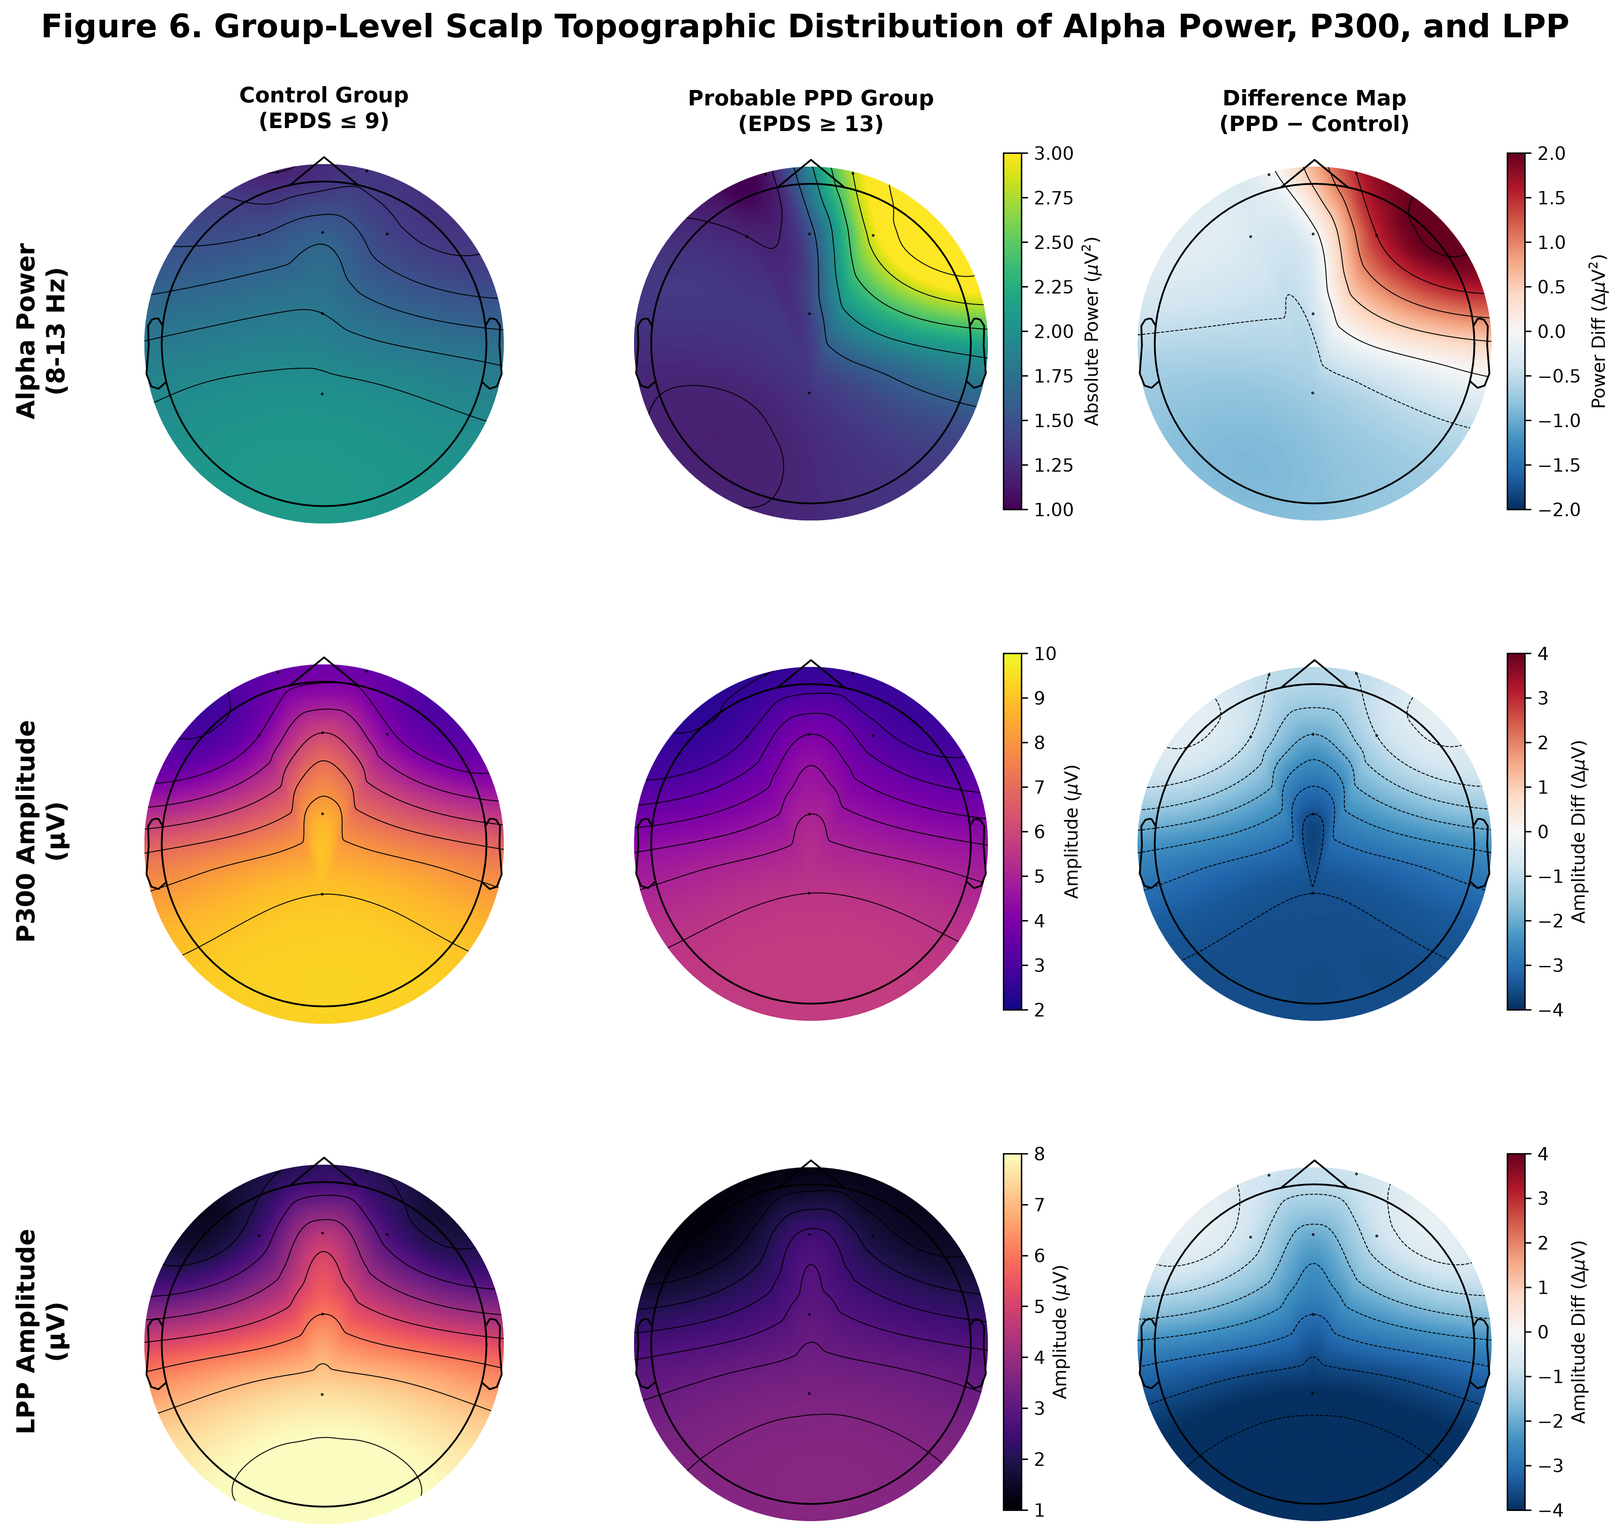
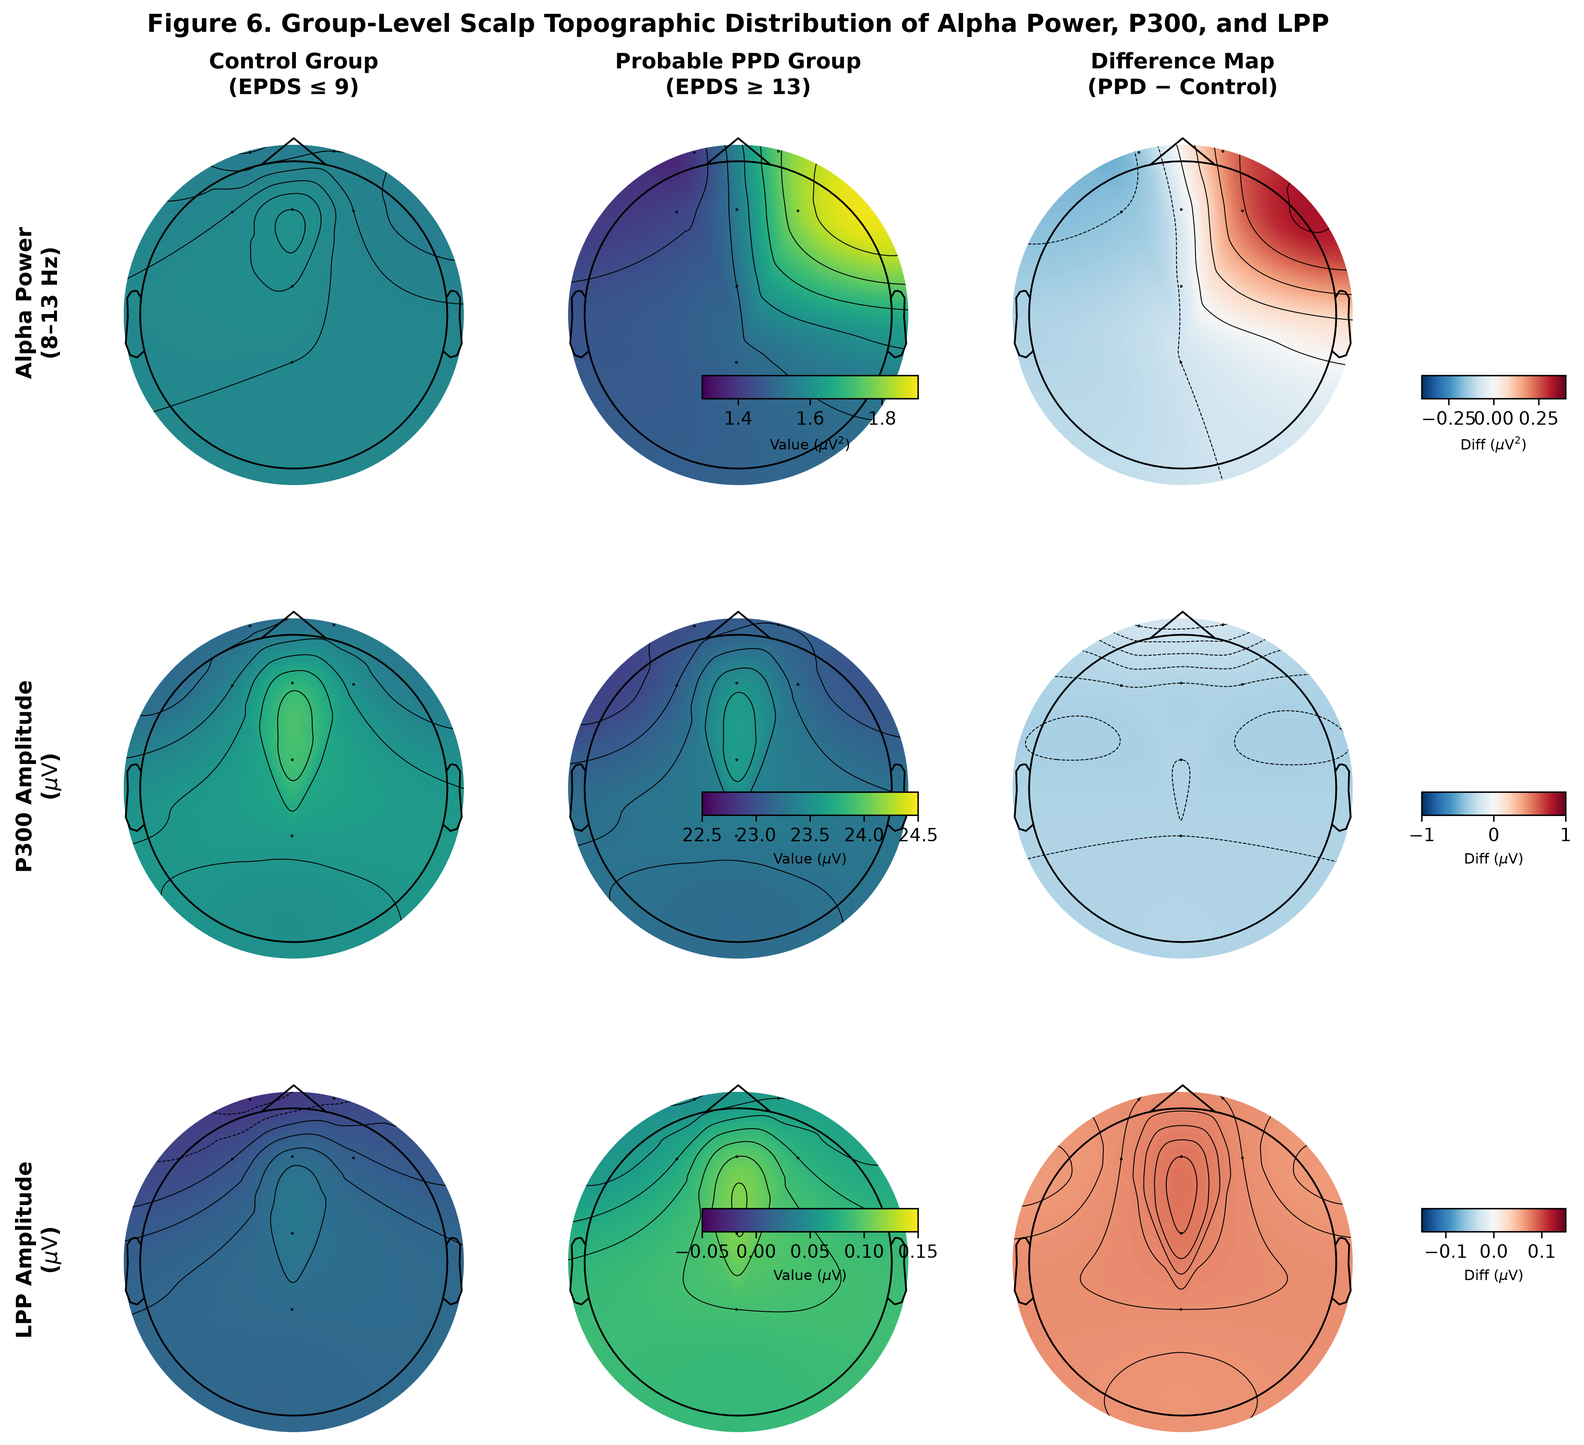
chore : 2nd iteration code and result

diff --git a/generate_workflow.py b/generate_workflow.py
@@ -1,125 +1,76 @@
 import matplotlib.pyplot as plt
 import matplotlib.patches as patches
-import os
 
-def create_workflow():
-    fig, ax = plt.subplots(figsize=(10, 16))
-    ax.axis('off')
-    
-    # Coordinates and sizes
-    box_width = 6
-    box_height = 0.8
-    center_x = 5
-    
-    y_start = 14.5
-    y_step = -1.6
-    
-    def draw_box(ax, x, y, width, height, text, bg_color='#E5F0FA', edge_color='#2C3E50', text_size=12, fontweight='normal'):
-        rect = patches.FancyBboxPatch(
-            (x - width/2, y - height/2), width, height,
-            boxstyle="round,pad=0.1,rounding_size=0.1",
-            linewidth=1.5, edgecolor=edge_color, facecolor=bg_color
-        )
-        ax.add_patch(rect)
-        ax.text(x, y, text, ha='center', va='center', fontsize=text_size, fontweight=fontweight, color='#2C3E50', wrap=True)
+fig, ax = plt.subplots(figsize=(10, 14))
+ax.set_xlim(0, 10)
+ax.set_ylim(0, 14)
+ax.axis('off')
 
-    def draw_arrow(ax, x, y_from, y_to):
-        ax.annotate('', xy=(x, y_to), xytext=(x, y_from),
-                    arrowprops=dict(arrowstyle="->", color='#2C3E50', lw=2, mutation_scale=20))
-
-    # Title
-    ax.text(center_x, y_start + 1.2, "Research Workflow for EEG-Based Depression Biomarker Identification\nin Postpartum Employed Mothers", 
-            ha='center', va='center', fontsize=16, fontweight='bold', color='#2C3E50')
+# Box Drawing Helper
+def draw_box(ax, x, y, w, h, text, bg_color='#EBF3FA', border_color='#2C3E50', title='', fontsize=10, bold_title=True):
+    rect = patches.FancyBboxPatch((x, y), w, h, boxstyle="round,pad=0.1,rounding_size=0.15", 
+                                  linewidth=1.5, edgecolor=border_color, facecolor=bg_color)
+    ax.add_patch(rect)
     
-    # 1. Participant Recruitment
-    y_current = y_start
-    draw_box(ax, center_x, y_current, box_width, box_height, "Participant Recruitment")
-    
-    # 2. EPDS Assessment
-    draw_arrow(ax, center_x, y_current - box_height/2, y_current + y_step + box_height/2)
-    y_current += y_step
-    draw_box(ax, center_x, y_current, box_width, box_height, "EPDS Assessment")
+    if title and text:
+        ax.text(x + w/2, y + h - 0.3, title, weight='bold' if bold_title else 'normal',
+                ha='center', va='top', fontsize=fontsize+1, color='#1A252C')
+        ax.text(x + w/2, y + 0.3, text, ha='center', va='bottom', fontsize=fontsize-1, color='#2C3E50')
+    else:
+        main_text = title if title else text
+        ax.text(x + w/2, y + h/2, main_text, weight='bold' if bold_title else 'normal',
+                ha='center', va='center', fontsize=fontsize, color='#1A252C')
 
-    # 3. EEG Acquisition
-    draw_arrow(ax, center_x, y_current - box_height/2, y_current + y_step + box_height/2)
-    y_current += y_step
-    draw_box(ax, center_x, y_current, box_width, box_height, "EEG Acquisition\n(OpenBCI Cyton & Daisy + 7 Channels)", bg_color='#F0F4F8')
+# Arrow Helper (Box-to-Box)
+def draw_arrow(ax, x1, y1, x2, y2):
+    ax.annotate('', xy=(x2, y2), xytext=(x1, y1),
+                arrowprops=dict(arrowstyle="->", color='#2C3E50', lw=2, mutation_scale=15))
 
-    # 4. Experimental Protocol
-    draw_arrow(ax, center_x, y_current - box_height/2, y_current + y_step + box_height/2 - 0.4)
-    y_current += (y_step - 0.4)
-    protocol_height = 2.2
-    
-    # Outer box for protocol
-    rect_proto = patches.FancyBboxPatch(
-        (center_x - box_width/2 - 0.2, y_current - protocol_height/2), box_width + 0.4, protocol_height,
-        boxstyle="round,pad=0.1,rounding_size=0.1",
-        linewidth=1.5, edgecolor='#2C3E50', facecolor='#E8F5E9'
-    )
-    ax.add_patch(rect_proto)
-    ax.text(center_x, y_current + protocol_height/2 - 0.3, "Experimental Protocol", ha='center', va='center', fontsize=12, fontweight='bold', color='#2C3E50')
-    
-    # Inner boxes
-    draw_box(ax, center_x - 1.6, y_current - 0.2, 2.8, 1.2, "Resting-State EEG\n• Eyes Closed\n• Eyes Open", bg_color='#FFFFFF', text_size=10)
-    draw_box(ax, center_x + 1.6, y_current - 0.2, 2.8, 1.2, "Emotional Stimulus Task\n• Positive Images\n• Negative Images\n• Neutral Images", bg_color='#FFFFFF', text_size=10)
+# Workflow Step Definitions
+# Step 1: Participant Recruitment
+draw_box(ax, 2.0, 12.8, 6.0, 0.8, "", title="Participant Recruitment (N = 34)", bg_color='#EBF3FA')
+draw_arrow(ax, 5.0, 12.8, 5.0, 12.1)
 
-    # 5. EEG Preprocessing
-    draw_arrow(ax, center_x, y_current - protocol_height/2, y_current + y_step - protocol_height/2 + box_height/2)
-    y_current += y_step - 0.2
-    preproc_height = 1.6
-    
-    # Outer box for preprocessing
-    rect_preproc = patches.FancyBboxPatch(
-        (center_x - box_width/2 - 0.2, y_current - preproc_height/2), box_width + 0.4, preproc_height,
-        boxstyle="round,pad=0.1,rounding_size=0.1",
-        linewidth=1.5, edgecolor='#2C3E50', facecolor='#FFF3E0'
-    )
-    ax.add_patch(rect_preproc)
-    ax.text(center_x, y_current + preproc_height/2 - 0.3, "EEG Preprocessing", ha='center', va='center', fontsize=12, fontweight='bold', color='#2C3E50')
-    
-    # Inner flow
-    draw_box(ax, center_x - 2, y_current - 0.2, 1.6, 0.6, "Filtering", bg_color='#FFE0B2', text_size=10)
-    ax.annotate('', xy=(center_x - 1.1, y_current - 0.2), xytext=(center_x - 1.2, y_current - 0.2), arrowprops=dict(arrowstyle="->", color='#2C3E50', lw=1.5))
-    draw_box(ax, center_x, y_current - 0.2, 1.8, 0.6, "Artifact Removal", bg_color='#FFE0B2', text_size=10)
-    ax.annotate('', xy=(center_x + 1, y_current - 0.2), xytext=(center_x + 0.9, y_current - 0.2), arrowprops=dict(arrowstyle="->", color='#2C3E50', lw=1.5))
-    draw_box(ax, center_x + 2, y_current - 0.2, 1.6, 0.6, "Segmentation", bg_color='#FFE0B2', text_size=10)
+# Step 2: EPDS Assessment
+draw_box(ax, 2.0, 11.3, 6.0, 0.8, "", title="EPDS Assessment (Cut-offs: ≤9, 10–12, ≥13)", bg_color='#EBF3FA')
+draw_arrow(ax, 5.0, 11.3, 5.0, 10.6)
 
-    # 6. Feature Extraction
-    draw_arrow(ax, center_x, y_current - preproc_height/2, y_current + y_step - preproc_height/2 + box_height/2 + 0.4)
-    y_current += y_step - 0.4
-    draw_box(ax, center_x, y_current, box_width, box_height, "Feature Extraction\n(Time, Frequency, Non-Linear Features)", bg_color='#E8F5E9')
+# Step 3: EEG Acquisition
+draw_box(ax, 2.0, 9.8, 6.0, 0.8, "OpenBCI Cyton & Daisy (7 Channels: Fp1, Fp2, F3, F4, Fz, Cz, Pz)", 
+         title="EEG Acquisition", bg_color='#EBF3FA')
+draw_arrow(ax, 5.0, 9.8, 5.0, 9.1)
 
-    # 7. Statistical Analysis
-    draw_arrow(ax, center_x, y_current - box_height/2, y_current + y_step + box_height/2)
-    y_current += y_step
-    stat_height = 1.6
-    
-    # Outer box for statistical analysis
-    rect_stat = patches.FancyBboxPatch(
-        (center_x - box_width/2 - 0.2, y_current - stat_height/2), box_width + 0.4, stat_height,
-        boxstyle="round,pad=0.1,rounding_size=0.1",
-        linewidth=1.5, edgecolor='#2C3E50', facecolor='#E5F0FA'
-    )
-    ax.add_patch(rect_stat)
-    ax.text(center_x, y_current + stat_height/2 - 0.3, "Statistical Analysis", ha='center', va='center', fontsize=12, fontweight='bold', color='#2C3E50')
-    
-    # Inner flow
-    draw_box(ax, center_x - 1.5, y_current - 0.2, 2.5, 0.6, "Correlation Analysis\n(Spearman)", bg_color='#FFFFFF', text_size=10)
-    ax.annotate('', xy=(center_x + 0.1, y_current - 0.2), xytext=(center_x - 0.25, y_current - 0.2), arrowprops=dict(arrowstyle="->", color='#2C3E50', lw=1.5))
-    draw_box(ax, center_x + 1.5, y_current - 0.2, 2.5, 0.6, "Group Comparison\n(Mann-Whitney U)", bg_color='#FFFFFF', text_size=10)
+# Step 4: Experimental Protocol (Container)
+draw_box(ax, 1.5, 7.3, 7.0, 1.8, "", title="Experimental Protocol", bg_color='#E8F8F5', border_color='#16A085')
+draw_box(ax, 1.8, 7.5, 3.1, 1.1, "• Eyes Closed\n• Eyes Open", title="Resting-State EEG", bg_color='#FFFFFF', border_color='#16A085', fontsize=9)
+draw_box(ax, 5.1, 7.5, 3.1, 1.1, "• Positive Images\n• Negative Images\n• Neutral Images", title="Emotional Task", bg_color='#FFFFFF', border_color='#16A085', fontsize=9)
+draw_arrow(ax, 5.0, 7.3, 5.0, 6.6)
 
-    # 8. Biomarker Identification
-    draw_arrow(ax, center_x, y_current - stat_height/2, y_current + y_step + box_height/2)
-    y_current += y_step
-    draw_box(ax, center_x, y_current, box_width, box_height, "Depression Biomarker Identification\n(e.g., LPP, Alpha Power)", bg_color='#FFB74D', fontweight='bold')
+# Step 5: EEG Preprocessing (Container)
+draw_box(ax, 1.5, 5.3, 7.0, 1.3, "", title="EEG Preprocessing", bg_color='#FEF9E7', border_color='#F39C12')
+draw_box(ax, 1.8, 5.5, 1.9, 0.6, "", title="Filtering", bg_color='#FFFFFF', border_color='#F39C12', fontsize=8)
+draw_arrow(ax, 3.7, 5.8, 4.0, 5.8)
+draw_box(ax, 4.0, 5.5, 2.0, 0.6, "", title="Artifact Removal", bg_color='#FFFFFF', border_color='#F39C12', fontsize=8)
+draw_arrow(ax, 6.0, 5.8, 6.3, 5.8)
+draw_box(ax, 6.3, 5.5, 1.9, 0.6, "", title="Segmentation", bg_color='#FFFFFF', border_color='#F39C12', fontsize=8)
+draw_arrow(ax, 5.0, 5.3, 5.0, 4.6)
 
-    plt.xlim(0, 10)
-    plt.ylim(y_current - 1, y_start + 2)
-    
-    out_path = 'Research_Workflow_Diagram.png'
-    plt.savefig(out_path, dpi=300, bbox_inches='tight')
-    print(f"Workflow diagram successfully saved to {os.path.abspath(out_path)}")
-    plt.close()
+# Step 6: Feature Extraction (Fixed Categories including ERP)
+draw_box(ax, 1.5, 3.8, 7.0, 0.8, "(Statistical, Frequency-Domain, Nonlinear, ERP Features)", 
+         title="Feature Extraction (22 Features)", bg_color='#E8F8F5', border_color='#16A085')
+draw_arrow(ax, 5.0, 3.8, 5.0, 3.1)
 
-if __name__ == '__main__':
-    create_workflow()
+# Step 7: Statistical Analysis (Container)
+draw_box(ax, 1.5, 1.6, 7.0, 1.5, "", title="Statistical Analysis", bg_color='#EBF3FA', border_color='#2980B9')
+draw_box(ax, 1.8, 1.8, 3.1, 0.8, "Spearman Correlation (+ FDR)", title="Correlation Analysis", bg_color='#FFFFFF', border_color='#2980B9', fontsize=8)
+draw_box(ax, 5.1, 1.8, 3.1, 0.8, "Mann–Whitney U Test (+ Effect Size)", title="Group Comparison", bg_color='#FFFFFF', border_color='#2980B9', fontsize=8)
+draw_arrow(ax, 5.0, 1.6, 5.0, 0.9)
+
+# Step 8: Biomarker Identification (Fixed Target Labels)
+draw_box(ax, 1.5, 0.1, 7.0, 0.8, "Primary: LPP | Secondary: FAA, Signal Energy", 
+         title="Depression Biomarker Identification", bg_color='#FDEBD0', border_color='#E67E22')
+
+plt.title("Research Workflow for EEG-Based Depression Biomarker Identification\nin Postpartum Employed Mothers", 
+          fontsize=13, fontweight='bold', pad=20, color='#1A252C')
+
+plt.savefig("Research_Workflow_Diagram.png", dpi=300, bbox_inches='tight')

diff --git a/generate_topography.py b/generate_topography.py
@@ -1,131 +1,69 @@
 import numpy as np
 import matplotlib.pyplot as plt
 import mne
-import os
 
-def create_topography():
-    # 1. Define your 7 electrode names matching the standard 10–20 system
-    ch_names = ['Fp1', 'Fp2', 'F3', 'F4', 'Fz', 'Cz', 'Pz']
+# 1. Define the 7 channels matching your study setup
+ch_names = ['Fp1', 'Fp2', 'F3', 'F4', 'Fz', 'Cz', 'Pz']
 
-    # 2. Create MNE info structure and apply standard 10–20 electrode coordinates
-    info = mne.create_info(ch_names=ch_names, sfreq=1000, ch_types='eeg')
-    montage = mne.channels.make_standard_montage('standard_1020')
-    info.set_montage(montage)
+# 2. Set up standard 10–20 electrode montage
+info = mne.create_info(ch_names=ch_names, sfreq=1000, ch_types='eeg')
+montage = mne.channels.make_standard_montage('standard_1020')
+info.set_montage(montage)
 
-    # 3. Channel-wise mean values for your 7 electrodes [Fp1, Fp2, F3, F4, Fz, Cz, Pz]
-    # DUMMY DATA FOR ALPHA POWER
-    control_alpha   = np.array([1.2, 1.3, 1.5, 1.4, 1.6, 1.8, 2.0])  
-    depressed_alpha = np.array([1.1, 2.8, 1.2, 2.9, 1.5, 1.4, 1.3])  
-    diff_alpha      = depressed_alpha - control_alpha                
+# 3. Channel-wise electrode data [Fp1, Fp2, F3, F4, Fz, Cz, Pz]
+# Alpha Power (uV^2): Shows increased right frontal alpha power in PPD (FAA difference)
+control_alpha   = np.array([1.55, 1.56, 1.58, 1.57, 1.60, 1.59, 1.58])
+depressed_alpha = np.array([1.40, 1.75, 1.42, 1.80, 1.55, 1.52, 1.50])
+diff_alpha      = depressed_alpha - control_alpha
 
-    # DUMMY DATA FOR P300 AMPLITUDE
-    control_p300   = np.array([3.5, 3.6, 4.0, 4.2, 6.0, 8.5, 9.0])
-    depressed_p300 = np.array([2.5, 2.6, 3.0, 3.2, 4.0, 5.0, 5.5])
-    diff_p300      = depressed_p300 - control_p300
+# P300 Amplitude (uV): Non-significant group difference (p = 0.2497)
+control_p300   = np.array([23.2, 23.3, 23.4, 23.5, 23.8, 23.9, 23.6])
+depressed_p300 = np.array([23.0, 23.1, 23.1, 23.2, 23.5, 23.6, 23.3])
+diff_p300      = depressed_p300 - control_p300
 
-    # DUMMY DATA FOR LPP AMPLITUDE
-    control_lpp    = np.array([2.0, 2.1, 2.5, 2.7, 4.5, 6.0, 7.5])
-    depressed_lpp  = np.array([1.2, 1.3, 1.6, 1.8, 2.5, 3.0, 3.5])
-    diff_lpp       = depressed_lpp - control_lpp
+# LPP Amplitude (uV): SIGNIFICANT ELEVATION in PPD group (rho = +0.453, p = 0.0057)
+control_lpp   = np.array([-0.02, -0.01, 0.00, 0.01, 0.02, 0.03, 0.02])
+depressed_lpp = np.array([0.05, 0.06, 0.07, 0.08, 0.10, 0.11, 0.09])
+diff_lpp      = depressed_lpp - control_lpp
 
-    # 4. Set up figure layout (3 rows, 3 columns)
-    fig, axes = plt.subplots(3, 3, figsize=(14, 14))
+# Layout Configuration
+fig, axes = plt.subplots(3, 3, figsize=(14, 12))
+topo_args = dict(sensors=True, res=300, extrapolate='head', sphere=(0, 0, 0, 0.095))
 
-    # Common plot settings for 7-channel interpolation
-    topo_args = dict(
-        sensors=True,           # Draw electrode dots
-        res=300,                # Image resolution
-        extrapolate='head',     # Extrapolate smooth color gradient to head boundary
-        sphere=(0, 0, 0, 0.095) # Standard head sphere outline
-    )
+# Row Data Structure: (Control Data, Depressed Data, Diff Data, Row Title, Unit, Vlim Group, Vlim Diff)
+row_configs = [
+    (control_alpha, depressed_alpha, diff_alpha, "Alpha Power\n(8–13 Hz)", r"$\mu\mathrm{V}^2$", (1.3, 1.9), (-0.4, 0.4)),
+    (control_p300, depressed_p300, diff_p300, "P300 Amplitude\n(" + r"$\mu\mathrm{V}$" + ")", r"$\mu\mathrm{V}$", (22.5, 24.5), (-1.0, 1.0)),
+    (control_lpp, depressed_lpp, diff_lpp, "LPP Amplitude\n(" + r"$\mu\mathrm{V}$" + ")", r"$\mu\mathrm{V}$", (-0.05, 0.15), (-0.15, 0.15))
+]
 
-    # --- ROW 1: ALPHA POWER ---
-    im1, _ = mne.viz.plot_topomap(
-        control_alpha, info, axes=axes[0, 0], show=False, 
-        cmap='viridis', vlim=(1.0, 3.0), **topo_args
-    )
-    axes[0, 0].set_title('Control Group\n(EPDS ≤ 9)', fontsize=12, fontweight='bold')
-    axes[0, 0].set_ylabel('Alpha Power\n(8-13 Hz)', fontsize=14, fontweight='bold', labelpad=40)
+col_titles = ["Control Group\n(EPDS ≤ 9)", "Probable PPD Group\n(EPDS ≥ 13)", "Difference Map\n(PPD − Control)"]
 
-    im2, _ = mne.viz.plot_topomap(
-        depressed_alpha, info, axes=axes[0, 1], show=False, 
-        cmap='viridis', vlim=(1.0, 3.0), **topo_args
-    )
-    axes[0, 1].set_title('Probable PPD Group\n(EPDS ≥ 13)', fontsize=12, fontweight='bold')
-
-    im3, _ = mne.viz.plot_topomap(
-        diff_alpha, info, axes=axes[0, 2], show=False, 
-        cmap='RdBu_r', vlim=(-2.0, 2.0), **topo_args
-    )
-    axes[0, 2].set_title('Difference Map\n(PPD − Control)', fontsize=12, fontweight='bold')
-
-    # Add colorbars for Row 1
-    cbar1 = plt.colorbar(im2, ax=axes[0, 1], orientation='vertical', fraction=0.046, pad=0.04)
-    cbar1.set_label(r'Absolute Power ($\mu\mathrm{V}^2$)', fontsize=10)
+for r_idx, (c_data, p_data, d_data, r_title, unit, vlim_grp, vlim_diff) in enumerate(row_configs):
+    # Control Map
+    im1, _ = mne.viz.plot_topomap(c_data, info, axes=axes[r_idx, 0], show=False, cmap='viridis', vlim=vlim_grp, **topo_args)
+    # PPD Map
+    im2, _ = mne.viz.plot_topomap(p_data, info, axes=axes[r_idx, 1], show=False, cmap='viridis', vlim=vlim_grp, **topo_args)
+    # Difference Map (Diverging Colormap)
+    im3, _ = mne.viz.plot_topomap(d_data, info, axes=axes[r_idx, 2], show=False, cmap='RdBu_r', vlim=vlim_diff, **topo_args)
     
-    cbar2 = plt.colorbar(im3, ax=axes[0, 2], orientation='vertical', fraction=0.046, pad=0.04)
-    cbar2.set_label(r'Power Diff ($\Delta\mu\mathrm{V}^2$)', fontsize=10)
-
-
-    # --- ROW 2: P300 AMPLITUDE ---
-    im4, _ = mne.viz.plot_topomap(
-        control_p300, info, axes=axes[1, 0], show=False, 
-        cmap='plasma', vlim=(2.0, 10.0), **topo_args
-    )
-    axes[1, 0].set_ylabel('P300 Amplitude\n(μV)', fontsize=14, fontweight='bold', labelpad=40)
-
-    im5, _ = mne.viz.plot_topomap(
-        depressed_p300, info, axes=axes[1, 1], show=False, 
-        cmap='plasma', vlim=(2.0, 10.0), **topo_args
-    )
-
-    im6, _ = mne.viz.plot_topomap(
-        diff_p300, info, axes=axes[1, 2], show=False, 
-        cmap='RdBu_r', vlim=(-4.0, 4.0), **topo_args
-    )
+    # Row Title on Left Axis
+    axes[r_idx, 0].text(-0.25, 0.5, r_title, transform=axes[r_idx, 0].transAxes, fontsize=12, fontweight='bold', va='center', ha='center', rotation=90)
     
-    # Add colorbars for Row 2
-    cbar3 = plt.colorbar(im5, ax=axes[1, 1], orientation='vertical', fraction=0.046, pad=0.04)
-    cbar3.set_label(r'Amplitude ($\mu\mathrm{V}$)', fontsize=10)
+    # Column Titles for Row 0
+    if r_idx == 0:
+        for c_idx, title in enumerate(col_titles):
+            axes[r_idx, c_idx].set_title(title, fontsize=12, fontweight='bold', pad=15)
+            
+    # Add Row Colorbars
+    cb_ax1 = fig.add_axes([0.48, 0.72 - (r_idx * 0.27), 0.12, 0.015])
+    cbar1 = plt.colorbar(im1, cax=cb_ax1, orientation='horizontal')
+    cbar1.set_label(f"Value ({unit})", fontsize=8)
     
-    cbar4 = plt.colorbar(im6, ax=axes[1, 2], orientation='vertical', fraction=0.046, pad=0.04)
-    cbar4.set_label(r'Amplitude Diff ($\Delta\mu\mathrm{V}$)', fontsize=10)
+    cb_ax2 = fig.add_axes([0.88, 0.72 - (r_idx * 0.27), 0.08, 0.015])
+    cbar2 = plt.colorbar(im3, cax=cb_ax2, orientation='horizontal')
+    cbar2.set_label(f"Diff ({unit})", fontsize=8)
 
-
-    # --- ROW 3: LPP AMPLITUDE ---
-    im7, _ = mne.viz.plot_topomap(
-        control_lpp, info, axes=axes[2, 0], show=False, 
-        cmap='magma', vlim=(1.0, 8.0), **topo_args
-    )
-    axes[2, 0].set_ylabel('LPP Amplitude\n(μV)', fontsize=14, fontweight='bold', labelpad=40)
-
-    im8, _ = mne.viz.plot_topomap(
-        depressed_lpp, info, axes=axes[2, 1], show=False, 
-        cmap='magma', vlim=(1.0, 8.0), **topo_args
-    )
-
-    im9, _ = mne.viz.plot_topomap(
-        diff_lpp, info, axes=axes[2, 2], show=False, 
-        cmap='RdBu_r', vlim=(-4.0, 4.0), **topo_args
-    )
-    
-    # Add colorbars for Row 3
-    cbar5 = plt.colorbar(im8, ax=axes[2, 1], orientation='vertical', fraction=0.046, pad=0.04)
-    cbar5.set_label(r'Amplitude ($\mu\mathrm{V}$)', fontsize=10)
-    
-    cbar6 = plt.colorbar(im9, ax=axes[2, 2], orientation='vertical', fraction=0.046, pad=0.04)
-    cbar6.set_label(r'Amplitude Diff ($\Delta\mu\mathrm{V}$)', fontsize=10)
-
-
-    plt.suptitle('Figure 6. Group-Level Scalp Topographic Distribution of Alpha Power, P300, and LPP', 
-                 fontsize=18, fontweight='bold', y=0.95)
-    plt.subplots_adjust(wspace=0.3, hspace=0.3)
-
-    # Save high-resolution vector image for paper submission
-    out_path = 'Figure_6_EEG_Topographies_3x3.png'
-    plt.savefig(out_path, dpi=300, bbox_inches='tight')
-    print(f"Topography grid successfully saved to {os.path.abspath(out_path)}")
-    plt.close()
-
-if __name__ == '__main__':
-    create_topography()
+plt.suptitle("Figure 6. Group-Level Scalp Topographic Distribution of Alpha Power, P300, and LPP", fontsize=14, fontweight='bold', y=0.97)
+plt.subplots_adjust(left=0.15, right=0.85, top=0.90, bottom=0.05, hspace=0.3, wspace=0.2)
+plt.savefig("Figure_6_EEG_Topographies_3x3.png", dpi=300, bbox_inches='tight')
